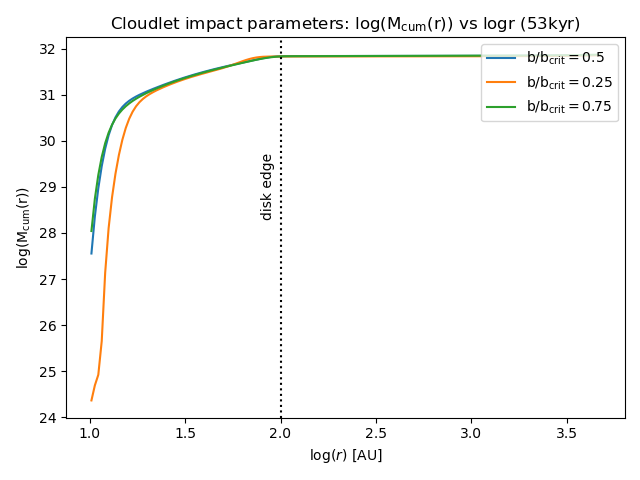
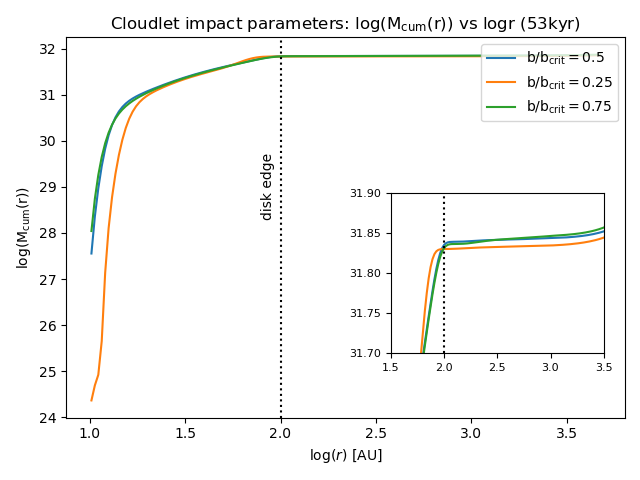
mass vs r all b formatting

diff --git a/mass_vs_r.py b/mass_vs_r.py
@@ -282,19 +282,27 @@ def main():
     ax.set_xlabel(r"$\log(r)$ [AU]")
     ax.set_ylabel(r"$\mathrm{\log(M_{shell}(r))}$ [g]")
     plt.axvline(2, linestyle=":", color="black")
-    plt.text(1.9, 29, "disk edge", rotation=90, verticalalignment='center')
+    plt.text(1.9, 26, "disk edge", rotation=90, verticalalignment='center')
     ax.set_title(f"Cloudlet impact parameters: $\mathrm{{\log(M_{{shell}}(r))}}$ vs logr (53kyr)")
     ax.legend()
     plt.savefig('logM_vs_logr_all_b.png')
     plt.show()
 
     fig, ax = plt.subplots()
+    inset_ax = inset_axes(ax, width="35%", height="35%", bbox_to_anchor=(0.6, 0.25, 0.95, 0.95), bbox_transform=fig.transFigure, loc="lower left")      
+    y1, y2 = 31.7, 31.9
+    x1, x2 = 1.5, 3.5
+    inset_ax.set_ylim(y1, y2)
+    inset_ax.set_xlim(x1, x2)
     for key, value in cum_mass_allb.items():
         ax.plot(np.log10(domains["r"]/au)[:-1], np.log10(value), label=b_labels[key])
+        inset_ax.plot(np.log10(domains["r"]/au)[:-1], np.log10(value))
     ax.set_xlabel(r"$\log(r)$ [AU]")
     ax.set_ylabel(r"$\mathrm{\log(M_{cum}(r))}$")
     ax.axvline(2, linestyle=":", color="black")
     ax.text(1.9, 29, "disk edge", rotation=90, verticalalignment='center')
+    inset_ax.axvline(2, linestyle=":", color="black")
+    inset_ax.tick_params(axis='both', labelsize=8)
     ax.set_title(fr"Cloudlet impact parameters: $\mathrm{{\log(M_{{cum}}(r))}}$ vs logr (53kyr)")
     fig.tight_layout()
     ax.legend(loc="upper right")   # loc='upper left', 
